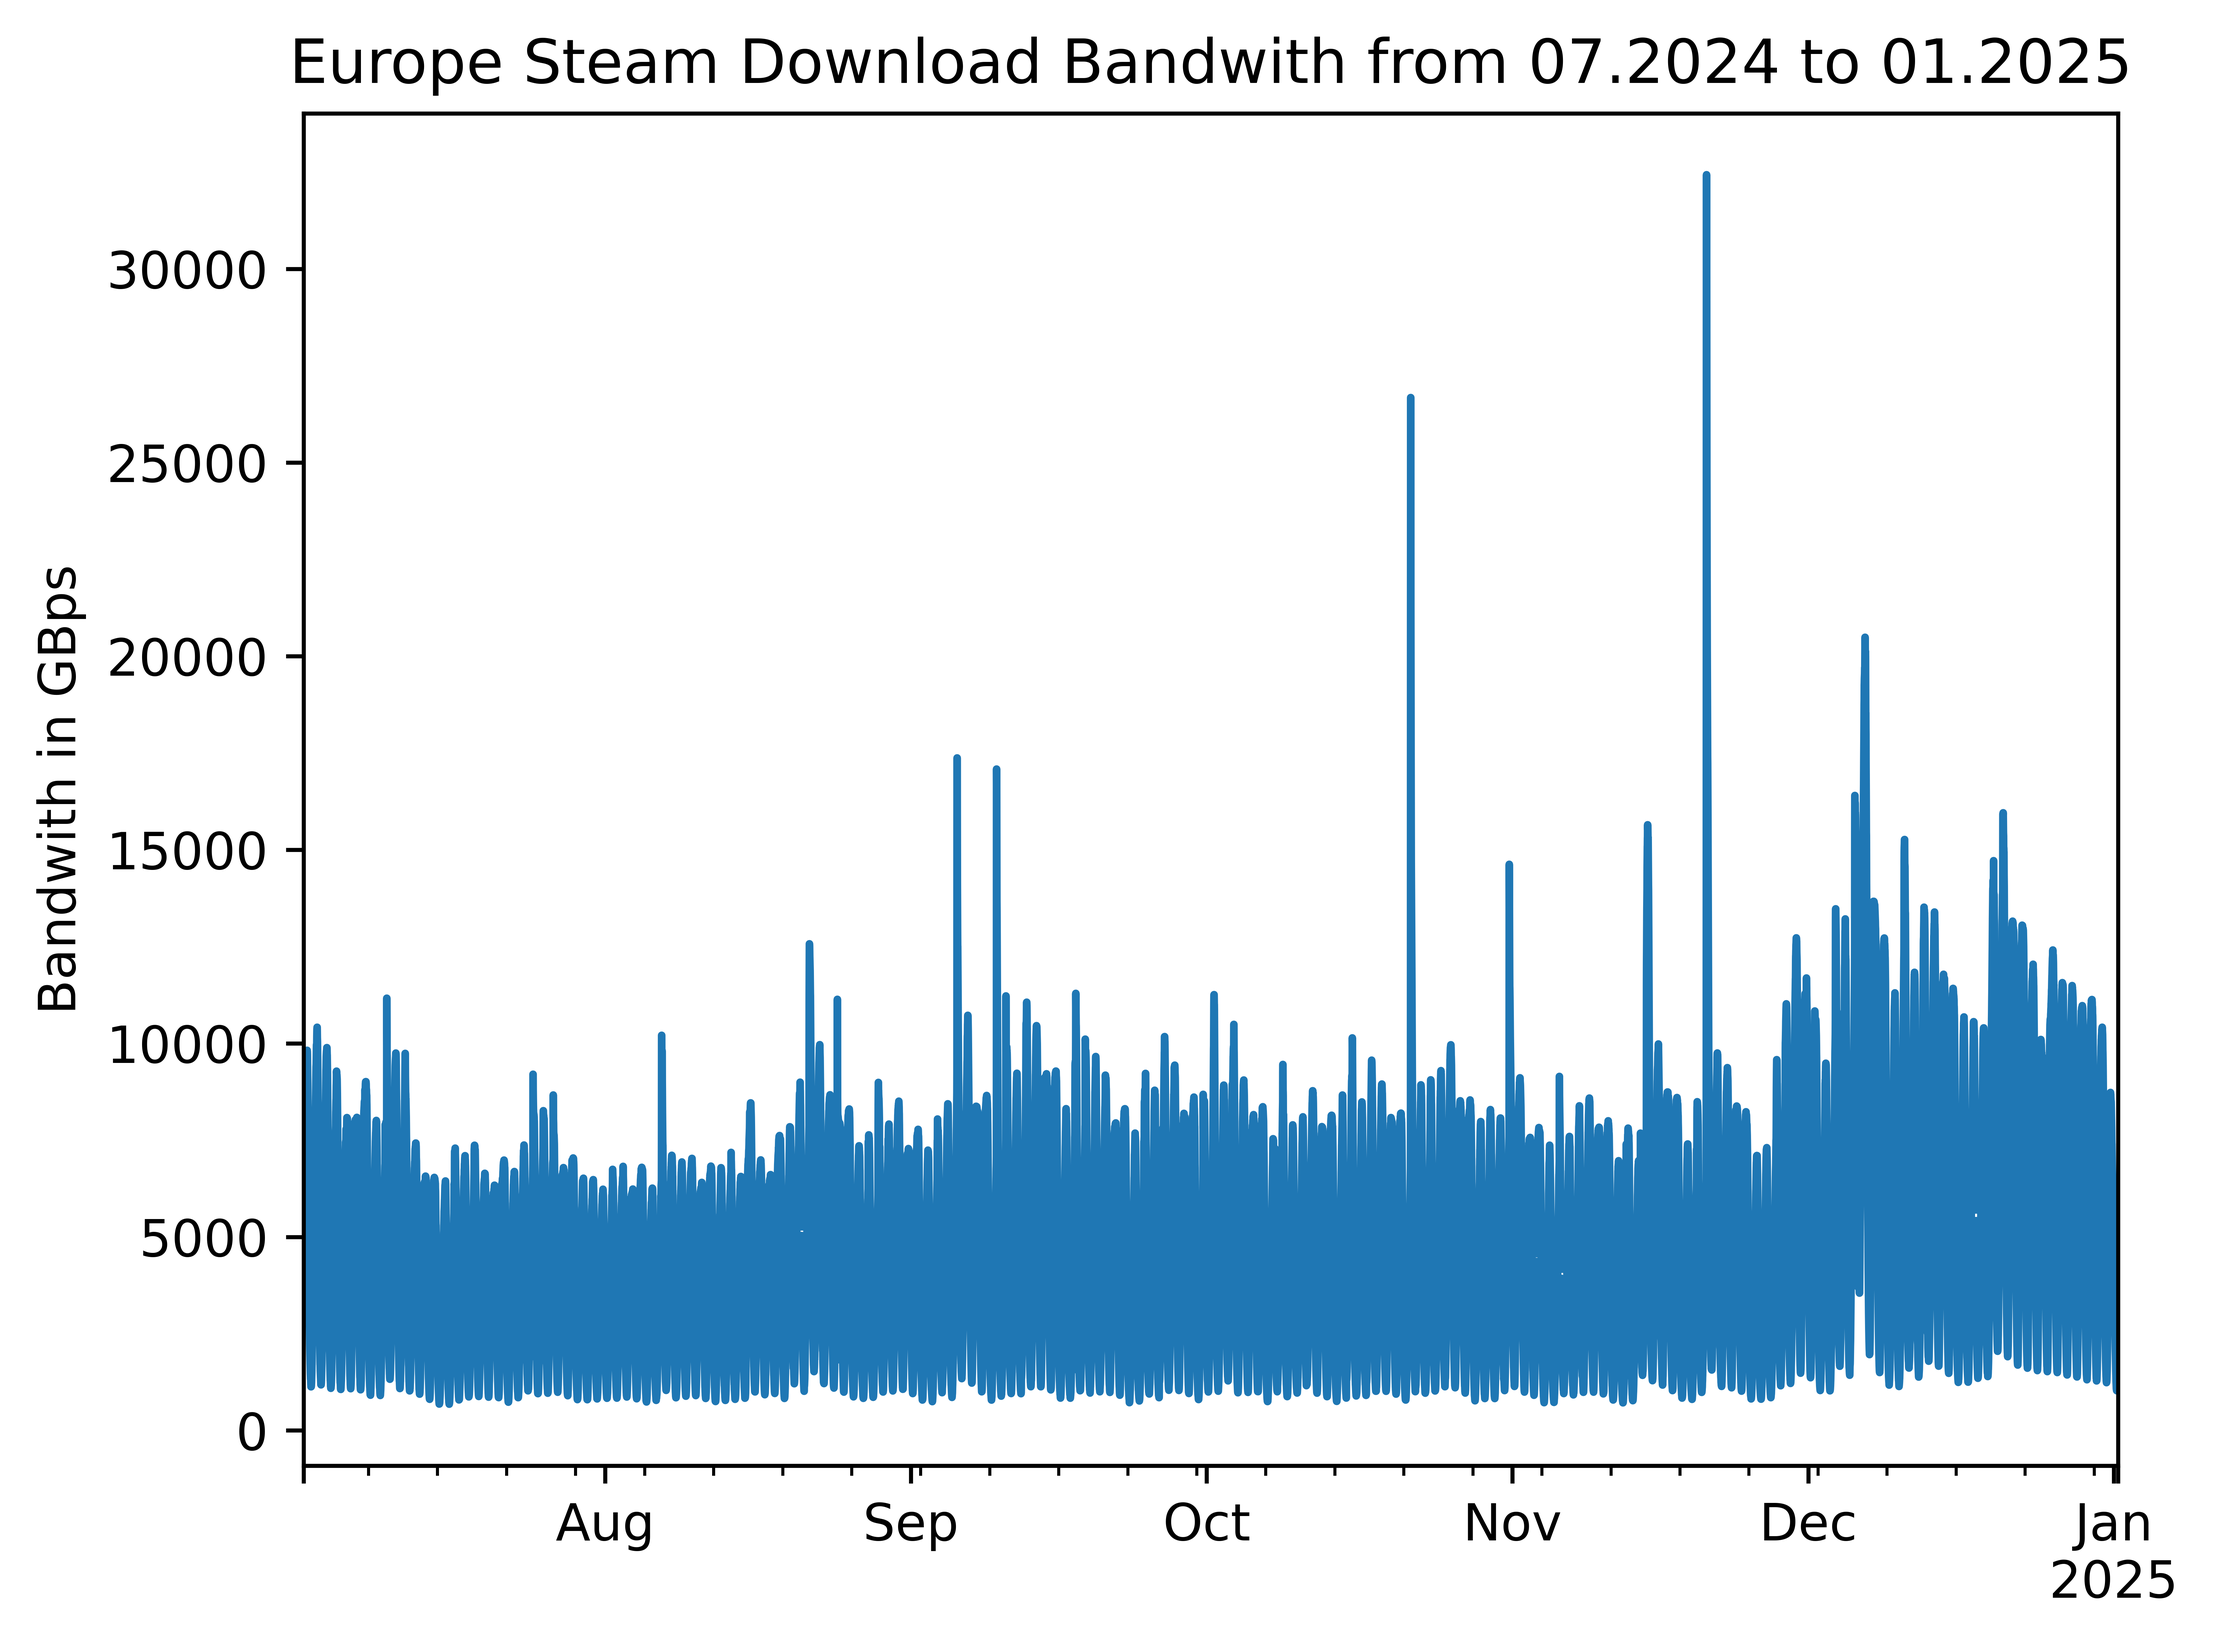
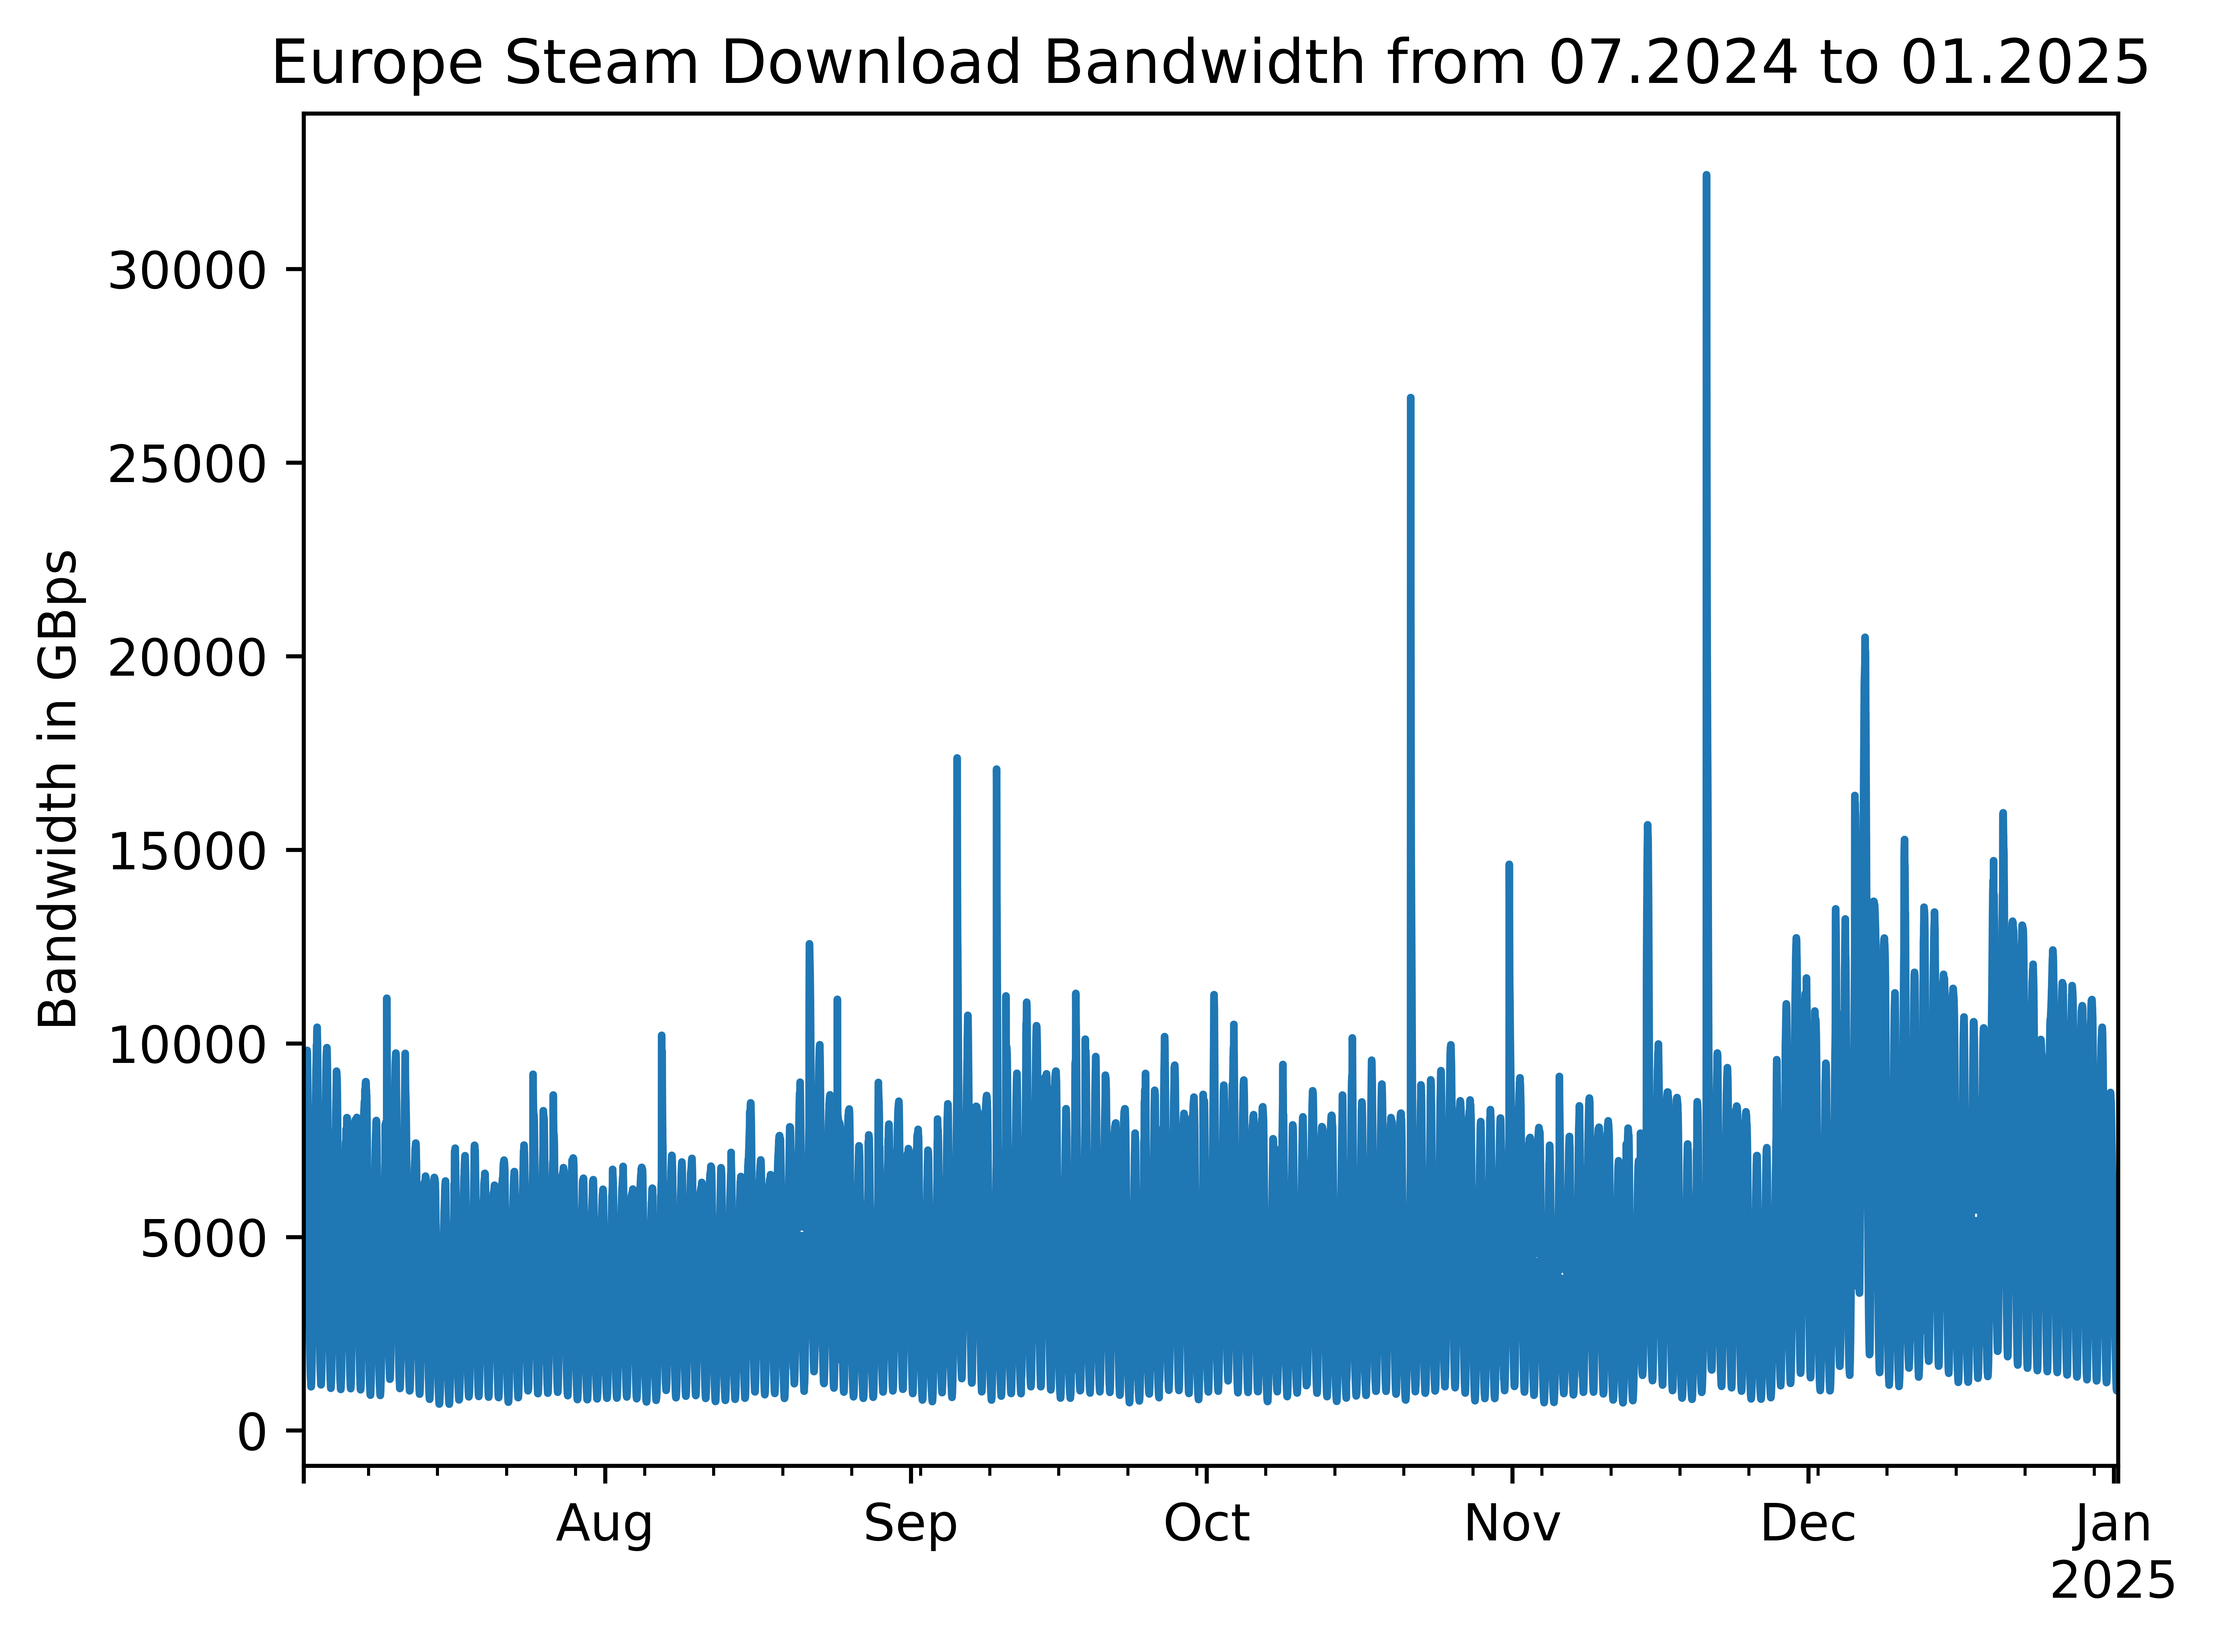
fix: typo

Changed region(s): [[0.125, 0.0, 0.9685, 0.0623], [0.0, 0.3425, 0.0312, 0.6228]]

diff --git a/ATSSB_TS_Examples/ATSSB_TS_Examples.py b/ATSSB_TS_Examples/ATSSB_TS_Examples.py
@@ -27,8 +27,8 @@ dat = pd.date_range('2016 10 03 10:20:00', periods = len(bandwith),freq = '10min
 bandwith.index = dat
 bandwith = bandwith.loc["2024-07-01 10:20:00": "2025-01-01 10:30:00"]
 bandwith = bandwith['Europe']
-bandwith.plot(); plt.title('Europe Steam Download Bandwith from 07.2024 to 01.2025')
-plt.ylabel('Bandwith in GBps'); 
+bandwith.plot(); plt.title('Europe Steam Download Bandwidth from 07.2024 to 01.2025')
+plt.ylabel('Bandwidth in GBps'); 
 plt.savefig('ATSSB_Europe_Steam_Download.png', dpi = 1200, 
             bbox_inches ='tight', transparent = True); plt.show()
 
